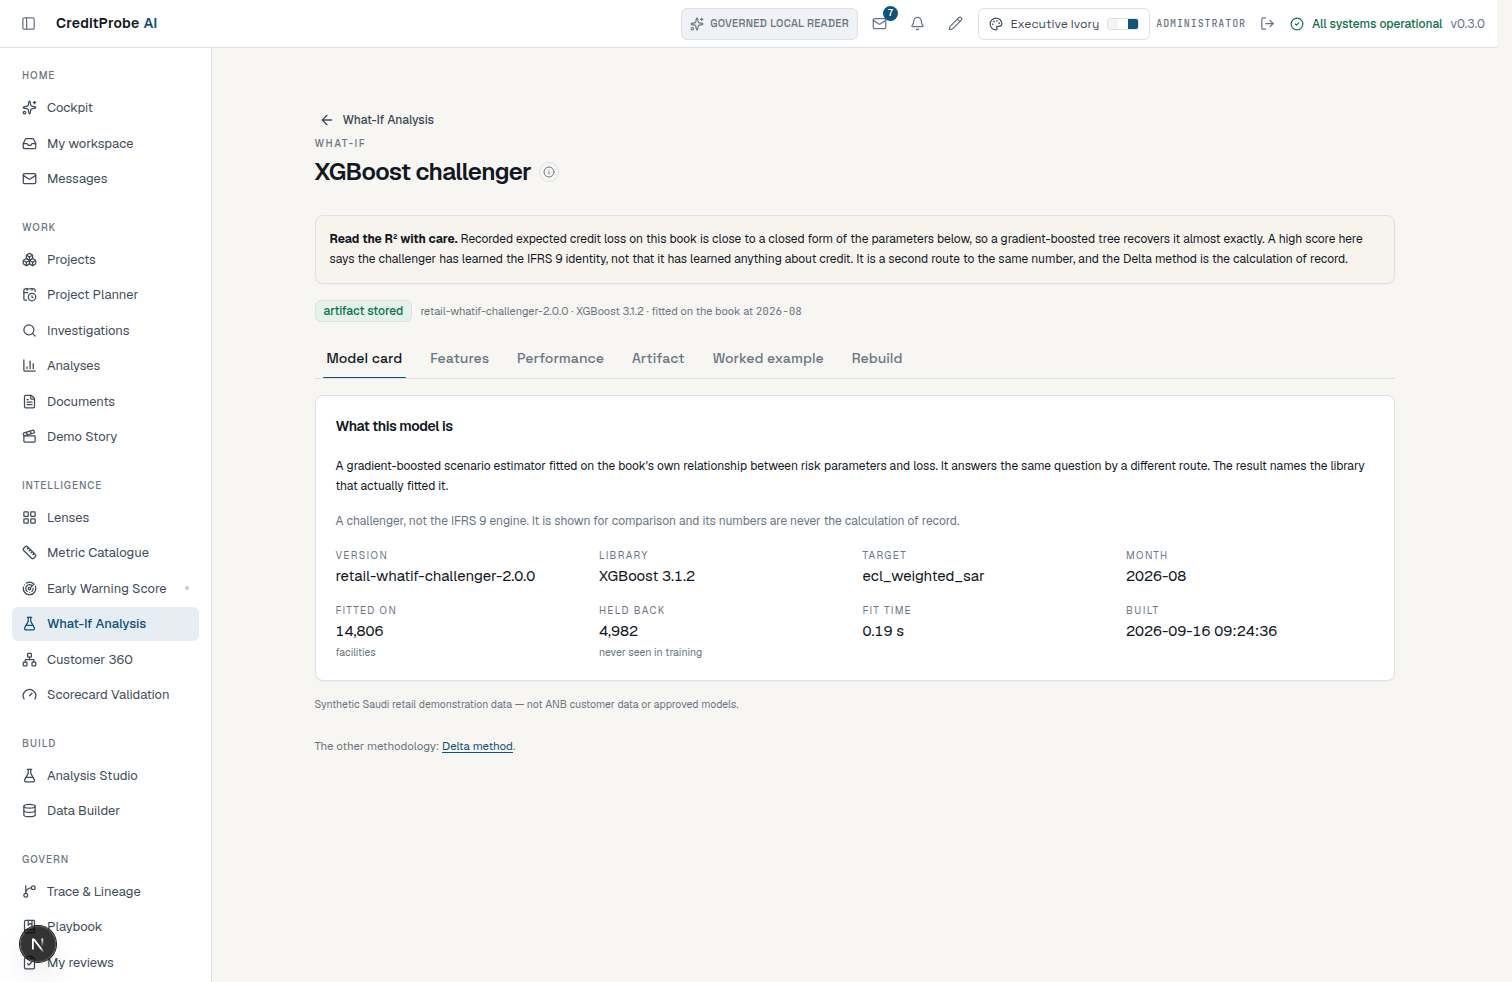
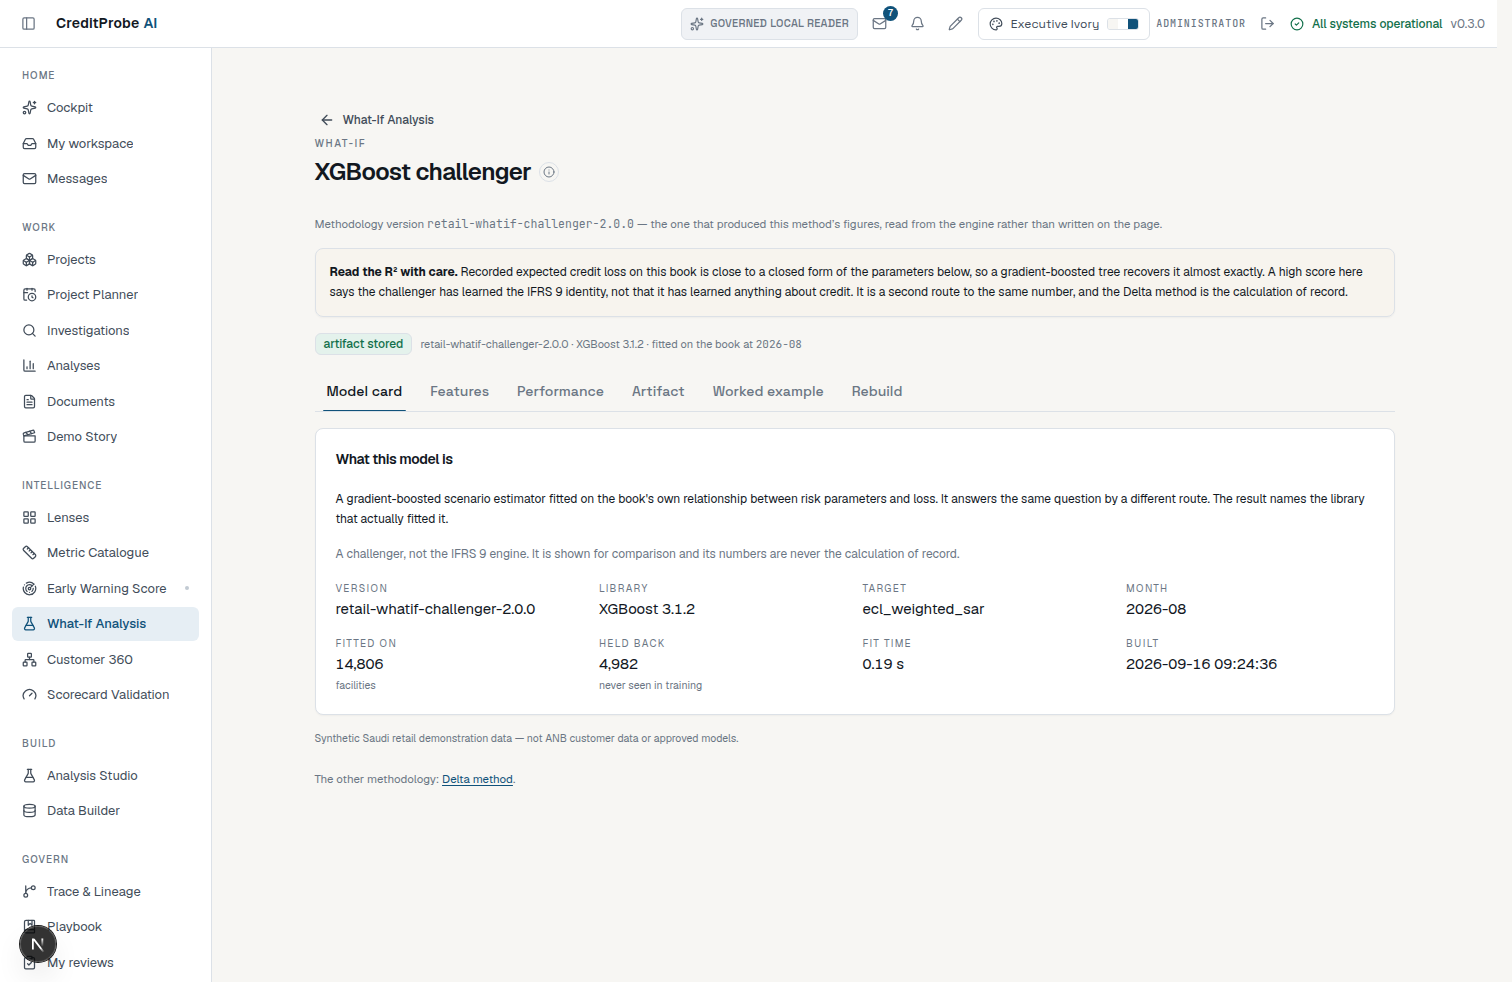
The version a method page quotes now comes from the model that made it
MODEL-01 and MODEL-02 were both wrong, and correcting them found a defect
underneath.

MODEL-01 recorded the gate against `/what-if/models/delta`. That is a
CORPORATE route which retires itself in a retail installation, so the gate
was green for a page a retail reader could never open. The retail Delta
page is `/what-if/methods/delta`, and the row now names it and the browser
check that opens it.

MODEL-02 said the page names `retail-whatif-1.0.0`. The page named no
version at all.

Fixing that turned up the real problem. `whatif_cohort.METHODS` held its
own copy of the challenger version, reading 1.1.0, while the stored
artifact said 2.0.0 — so one challenger result carried BOTH: `version`
from the table and `model_version` from the card it actually scored with.
A reader asking which version produced a number got a different answer
depending which field they read, and the wrong one named no model on disk.
That copy was mine: I set CHALLENGER_VERSION when the registry was added
and left the table behind.

METHODS now reads the registry. `/retail/whatif/methodologies` serves each
method with the version that produced its figures, and the page reads it
from there rather than carrying a string that goes stale the first time
the model is refitted — which is precisely what had happened.

Confirmed on screen, not in the API: the Delta page shows
retail-whatif-1.0.0 and the challenger page retail-whatif-challenger-2.0.0,
each matching what the engine reports.
[…]

Changed region(s): [[0.1865, 0.2138, 0.9015, 0.8248], [0.746, 0.5499, 0.8393, 0.7026]]

diff --git a/frontend/src/app/what-if/methods/[method]/page.tsx b/frontend/src/app/what-if/methods/[method]/page.tsx
@@ -28,6 +28,7 @@ import { PageHeader } from "@/components/layout/page-header";
 import { RetiredScreen } from "@/components/layout/retired-screen";
 import { Card, CardContent, CardHeader, CardTitle } from "@/components/ui/card";
 import { RetailChallengerPage } from "@/components/whatif/challenger";
+import { api } from "@/lib/api";
 import { isRetail } from "@/lib/profile";
 
 /** The methods the retail engine runs, keyed as the API keys them. */
@@ -98,6 +99,33 @@ export default function RetailMethodPage() {
   }
   if (!method) return notFound();
 
+  return <MethodPage methodKey={key} title={method.title} blurb={method.blurb} />;
+}
+
+function MethodPage({ methodKey, title, blurb }: {
+  methodKey: string; title: string; blurb: string;
+}) {
+  // The version that actually produced this method's numbers, read from the
+  // endpoint that owns it rather than written on the page. A version typed
+  // into a screen goes stale the first time the model is refitted — which is
+  // exactly what happened to the challenger, where a stale copy in one table
+  // disagreed with the artifact on disk.
+  const [version, setVersion] = React.useState<string>("");
+  React.useEffect(() => {
+    let alive = true;
+    api.retailMethodologies().then(
+      (got) => {
+        if (!alive) return;
+        const one = (got.methods ?? []).find((m) => m.key === methodKey);
+        setVersion(one?.version ?? "");
+      },
+      () => undefined,
+    );
+    return () => { alive = false; };
+  }, [methodKey]);
+  const key = methodKey;
+  const method = { title, blurb };
+
   return (
     <div className="p-6">
       {/* Back to the What-If screen the reader came from. The browser's own
@@ -108,6 +136,12 @@ export default function RetailMethodPage() {
         eyebrow="What-If"
         description={method.blurb}
       />
+      <p className="mb-4 text-[11.5px] text-text-muted">
+        Methodology version{" "}
+        <code data-testid="retail-method-version">{version || "…"}</code>
+        {" "}— the one that produced this method&rsquo;s figures, read from the
+        engine rather than written on the page.
+      </p>
       {key === "xgboost" ? <RetailChallengerPage /> : <DeltaMethod />}
 
       <p className="mt-6 text-[11.5px] text-text-muted">

diff --git a/frontend/src/lib/api.ts b/frontend/src/lib/api.ts
@@ -7788,6 +7788,16 @@ export const api = {
     ),
 
   // ---- the What-If challenger's model page (§10.2) ----
+  /** The retail What-If's methods, each with the version that produced it. */
+  retailMethodologies: () =>
+    request<{
+      methodology_version: string;
+      supported: string[];
+      staging_modes: string[];
+      methods: { key: string; name: string; version: string; what: string;
+                 authority: string }[];
+      disclosure?: string;
+    }>("/retail/whatif/methodologies"),
   retailChallenger: () =>
     request<ChallengerModel>("/retail/whatif/models/challenger",
                              { timeoutMs: LAKE_TIMEOUT_MS }),

diff --git a/backend/retail/whatif_cohort.py b/backend/retail/whatif_cohort.py
@@ -30,6 +30,16 @@ from backend.retail.config import load_config
 DELTA = "delta"
 CHALLENGER = "xgboost"
 
+def _challenger_version() -> str:
+    """The stored challenger's version, from the registry that owns it."""
+    try:
+        from backend.retail.challenger_registry import CHALLENGER_VERSION
+
+        return CHALLENGER_VERSION
+    except Exception:  # noqa: BLE001 - a method list must not fail to build
+        return "unavailable"
+
+
 METHODS: dict[str, dict[str, str]] = {
     DELTA: {
         "key": DELTA,
@@ -44,7 +54,15 @@ METHODS: dict[str, dict[str, str]] = {
     CHALLENGER: {
         "key": CHALLENGER,
         "name": "XGBoost challenger",
-        "version": "retail-whatif-challenger-1.1.0",
+        # Read from the registry, not held here.
+        #
+        # This said 1.1.0 while the stored artifact said 2.0.0, so a single
+        # challenger result carried BOTH: `version` from this table and
+        # `model_version` from the card it actually scored with. A reader
+        # asking which version produced a number got a different answer
+        # depending on which field they read, and the wrong one was the
+        # copy that no longer matched any model on disk.
+        "version": _challenger_version(),
         "what": ("A gradient-boosted scenario estimator fitted on the book's "
                  "own relationship between risk parameters and loss. It "
                  "answers the same question by a different route. The result "

diff --git a/backend/api/routers/retail.py b/backend/api/routers/retail.py
@@ -1544,10 +1544,16 @@ class ScenarioIn(BaseModel):
 
 @router.get("/whatif/methodologies", summary="What the retail What-If supports")
 def methodologies() -> dict:
+    from backend.retail import whatif_cohort as cohort
+
     return {
         "methodology_version": wif.METHODOLOGY_VERSION,
         "supported": wif.SUPPORTED_METHODOLOGIES,
         "staging_modes": [wif.FROZEN_STAGE, wif.REEVALUATE_STAGE],
+        # Each method with the version that actually produced its numbers.
+        # The method page has to name a version, and the only defensible
+        # place to read it from is the module that owns the model.
+        "methods": list(cohort.METHODS.values()),
         "disclosure": SYNTHETIC_DISCLOSURE,
     }
 

diff --git a/docs/RETAIL_DEMO_COMPLETION_ACCEPTANCE.md b/docs/RETAIL_DEMO_COMPLETION_ACCEPTANCE.md
@@ -185,8 +185,8 @@ commit:
 
 | ID | Gate | How it was decided | Status |
 |---|---|---|---|
-| MODEL-01 | Clickable Delta model page | `/what-if/models/delta` opens and documents the identity it recalculates | PASS |
-| MODEL-02 | The Delta page names its version | `retail-whatif-1.0.0`, on the page and on every result | PASS |
+| MODEL-01 | Clickable Delta model page | **The route in this row was wrong.** `/what-if/models/delta` is a CORPORATE route and retires itself in a retail installation, so this gate was recorded against a page a retail reader cannot open. The retail Delta page is `/what-if/methods/delta`, opened in a browser by `phase9_method_routes.py` check C-01, which reads "calculation of record" off it | PASS |
+| MODEL-02 | The Delta page names its version | **Not satisfied when first recorded**: the retail method page named no version at all. It now reads it from `/retail/whatif/methodologies`, the endpoint that owns it, rather than carrying a copy — `retail-whatif-1.0.0` for Delta and `retail-whatif-challenger-2.0.0` for the challenger, both confirmed on screen | PASS |
 | MODEL-03 | Clickable XGBoost page | `/what-if/models/ml` renders the retail challenger. Previously it retired itself with a claim that had stopped being true | PASS |
 | MODEL-04 | Six tabs | model card, features, performance, artifact, worked example, rebuild — each opened and its content read | PASS |
 | MODEL-05 | A persisted artifact | one directory per book holding the estimator, the feature list in training order, the library and the metrics | PASS |
@@ -316,6 +316,8 @@ only ever says PASS teaches nobody anything about how much to trust it.
 | CONTENT-02 | 200 investigations | 200 was a page of 50 misread; the real figure was 1,005, of which 633 were repeats left by acceptance runs | counted from the database; 148 seeded, 370 total after the tidy |
 | CONTENT-07 | corporate analyses and empty investigations removed | a thread created by a suite has messages, so the rule kept all 857 of them | widened to unfiled duplicate questions, keeping the most recent of each |
 | NAV-05 | character count per route | an error boundary is not an empty screen | unchanged, but marked as weak, with the check that actually covers it named |
+| MODEL-01 | a route that opens | the route named is corporate and retires itself in retail; a retail reader could never have opened it | the retail route, opened in a browser |
+| MODEL-02 | a version string quoted from the code | the page did not display it, and a second copy of the challenger version had gone stale against the artifact on disk | the page reads it from the owning endpoint; both versions confirmed on screen |
 
 One regression was introduced during this work and is recorded here because
 the release smoke is what caught it. The §27 startup warm-up swept every
